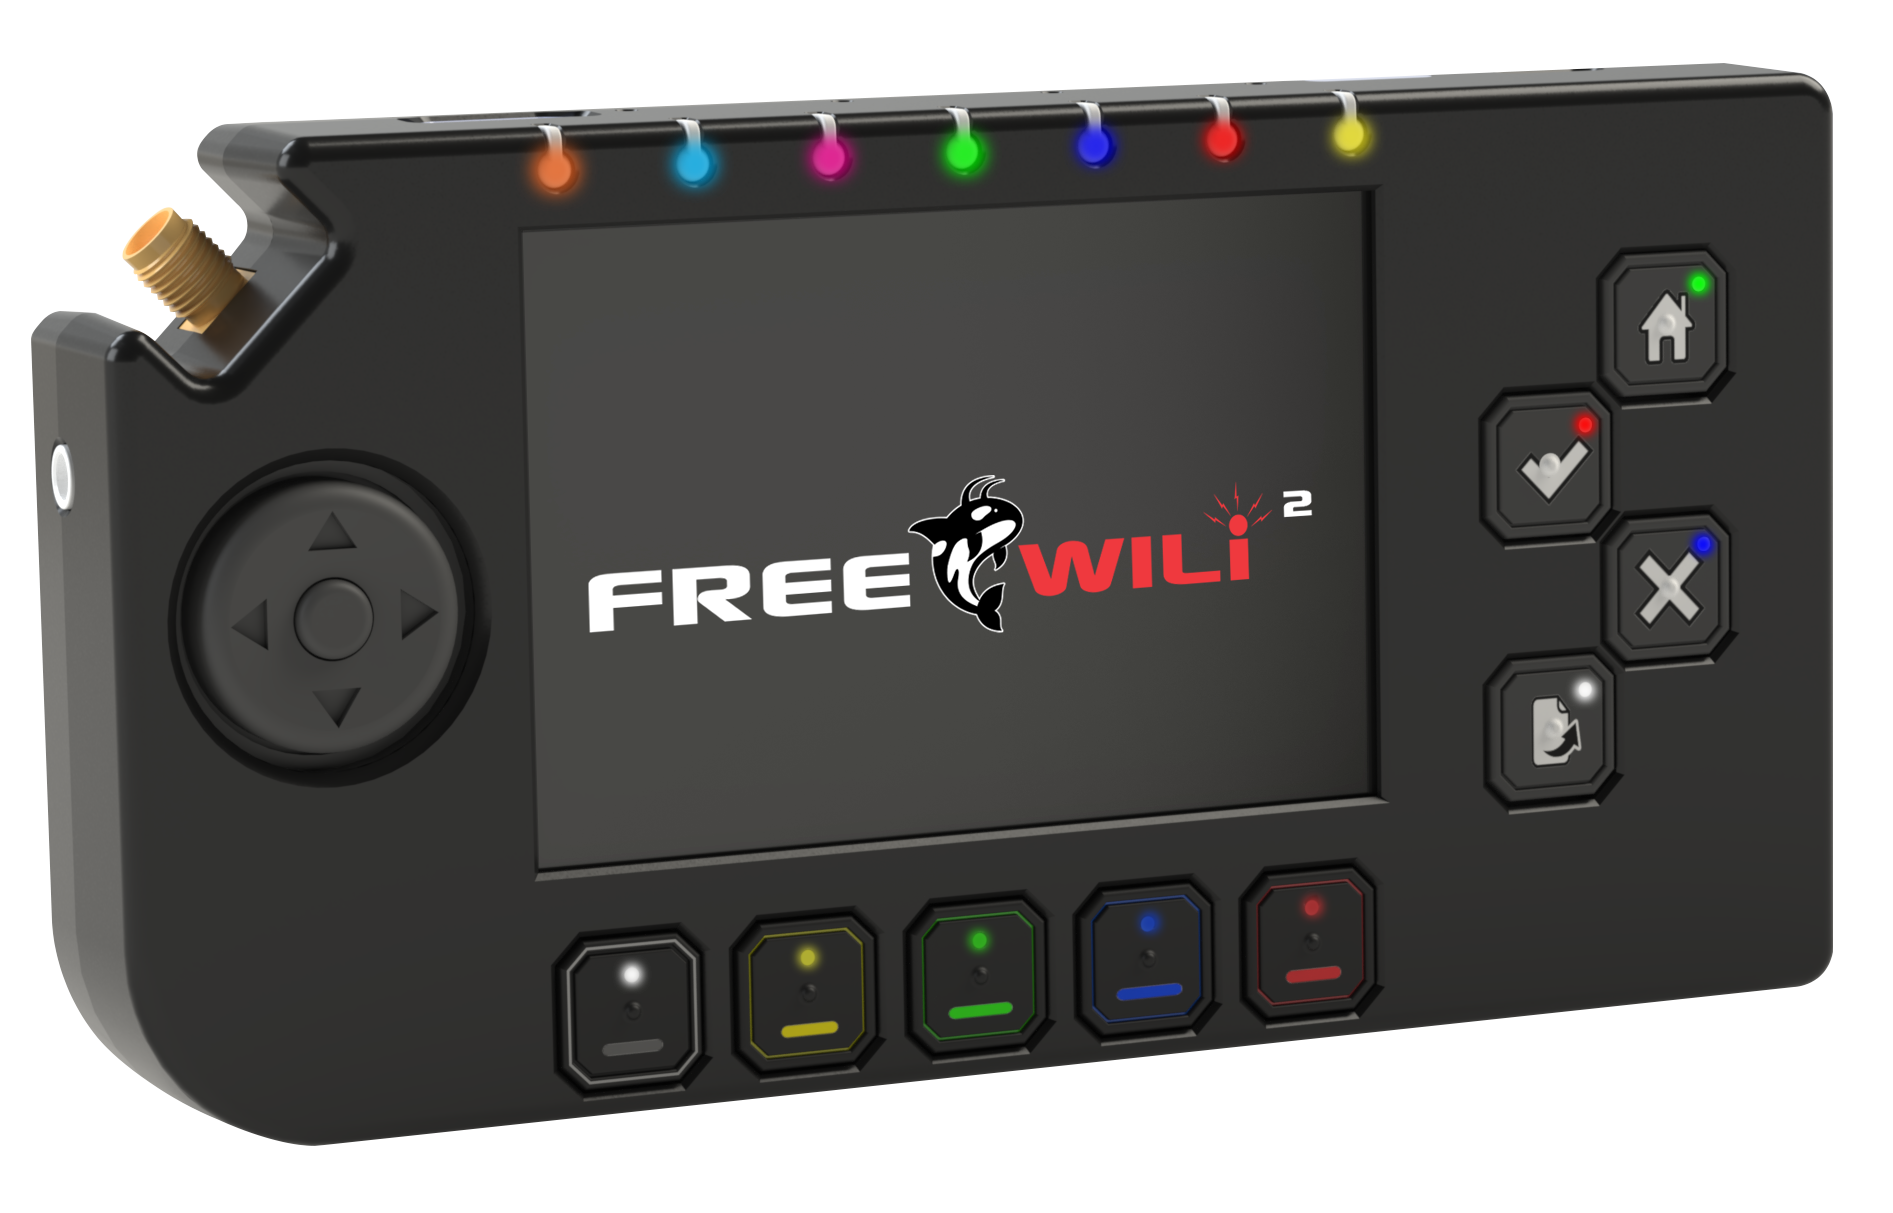
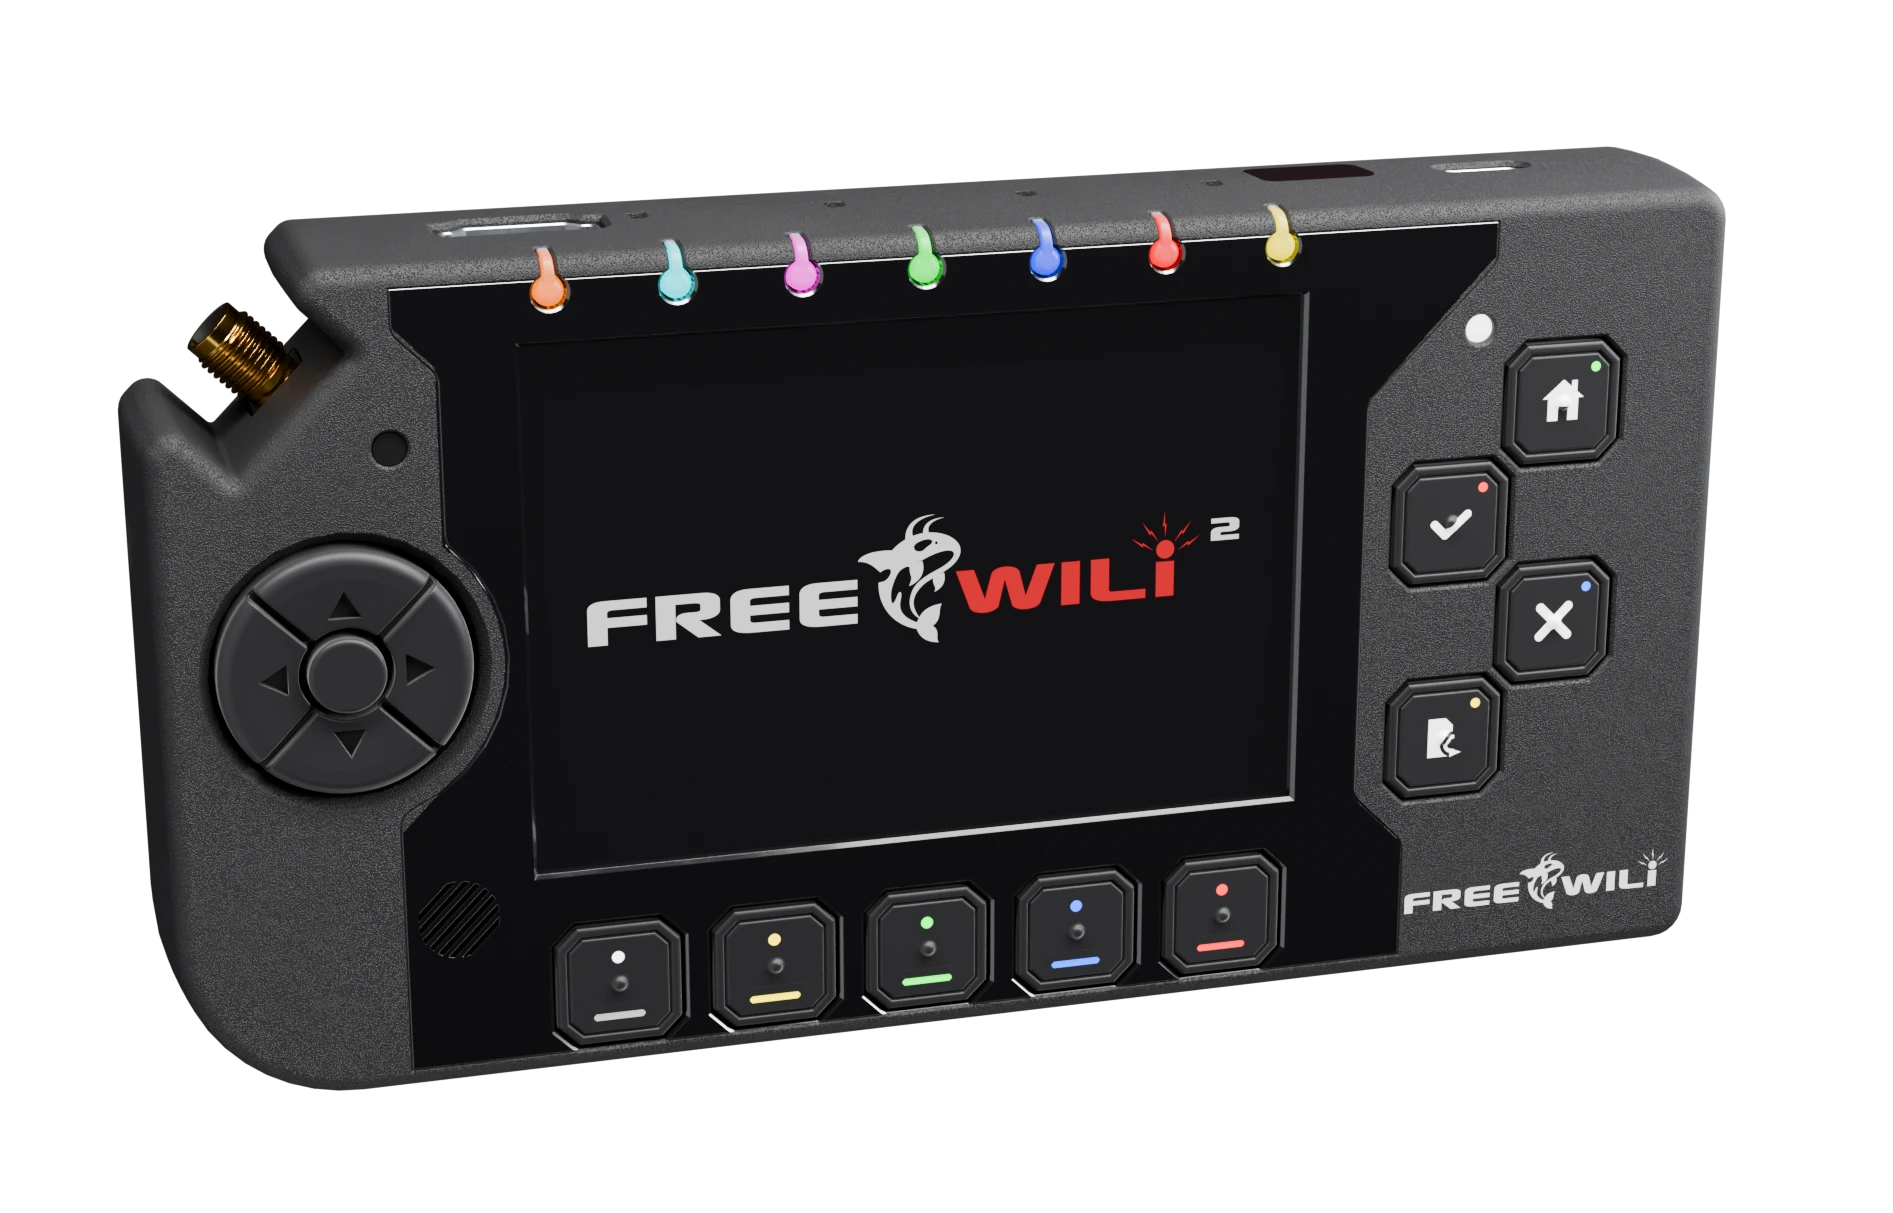
Update FREE-WILi 2 product renders on the homepage
Replace the hero image and the controls-section image with new renders from
the updated 3D model: stippled case with glossy inner panel, printed case
logo, current key icons, frosted LED pipes and gold antenna/GPIO pins.

- assets/FREE-WILi-Main.webp: new render, same 1893x1213 size and angle
  (864 KB -> 221 KB)
- assets/freewili2-device.png -> assets/freewili2-device.webp: new render,
  same 2048x1080 size and angle, WebP like the hero (253 KB PNG -> 201 KB)
- index.html: point the controls image at the .webp and give it width/height
  so the layout doesn't shift while it loads

Both images keep transparent backgrounds.

diff --git a/index.html b/index.html
@@ -199,7 +199,7 @@ gtag("config", "G-Q6LHBWVT7W");
         <ul class="f-list"><li><b>480×320</b> cap-touch</li><li>5-way D-pad</li><li>A·B·X·Y</li><li>5 context keys</li><li>motion input</li><li>backlit</li></ul>
       </div>
       <div class="f-media rise">
-        <div class="frame glow-red"><img loading="lazy" decoding="async" src="assets/freewili2-device.png" alt="FREE-WILi 2 showing the touchscreen, D-pad, A/B/X/Y buttons and context keys"></div>
+        <div class="frame glow-red"><img loading="lazy" decoding="async" src="assets/freewili2-device.webp" width="2048" height="1080" alt="FREE-WILi 2 showing the touchscreen, D-pad, A/B/X/Y buttons and context keys"></div>
       </div>
     </div>
 
